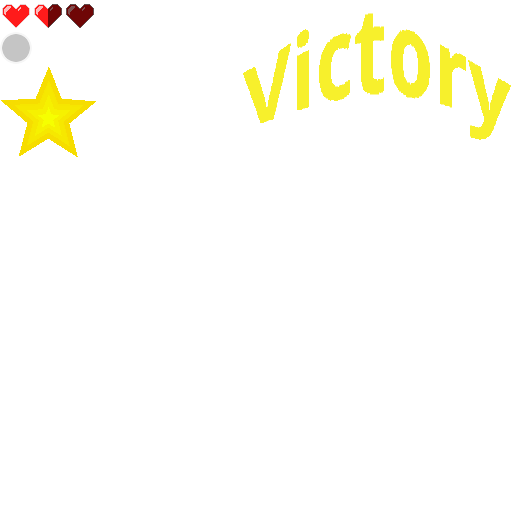
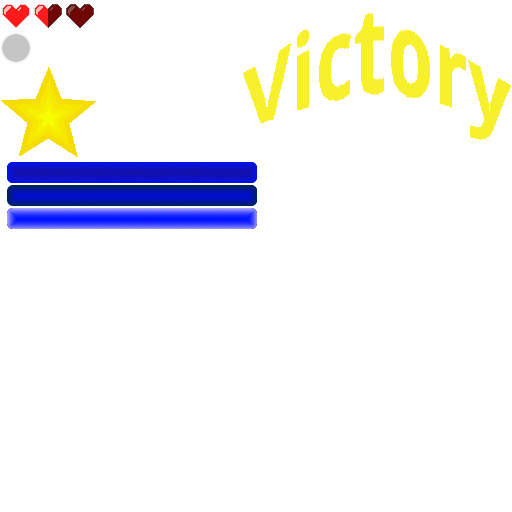
Worked on the main menu.

Changed region(s): [[0.0, 0.3125, 0.5, 0.4688]]

diff --git a/src/Client/StateMainMenu.cpp b/src/Client/StateMainMenu.cpp
@@ -1,8 +1,18 @@
 #include <Client/StateMainMenu.hpp>
 #include <Client/Window.hpp>
+#include <Client/Config.hpp>
+#include <StateManager.hpp>
+
+#include <Client/StateBomberman.hpp>
 
 #include <pihud/Label.hpp>
+#include <pihud/PushButton.hpp>
 #include <pihud/FontManager.hpp>
+#include <pihud/VerticalListLayout.hpp>
+#include <pihud/Layout.hpp>
+#include <pihud/pihud.hpp>
+
+#include <easylogging++.h>
 
 namespace Client
 {
@@ -13,6 +23,7 @@ namespace Client
     StateMainMenu::~StateMainMenu()
     {
 		delete m_menuContainer;
+		LOG(INFO) << "StateMainMenu deleted.";
     }
 
     void StateMainMenu::init()
@@ -24,13 +35,44 @@ namespace Client
         m_menuContainer->setCurrentPage("MainMenu");
 
         std::shared_ptr<PiH::Label> title(new PiH::Label(m_menuContainer));
-        title->setFont(getFontManager()->get("xolonium-fonts/fonts/Xolonium-Bold.otf:128"));
+        title->setFont(getFontManager()->get(getConfig()->getStringValue(Config::STANDARD_FONT) + ":128"));
         title->setText("BomberPi");
-        title->setPosition(getWindow()->getSize().x / 2 - title->getBoundingBox().w / 2,
+        title->setPosition(getWindow()->getSize().x / 2 - title->getTextWidth() / 2,
                            getWindow()->getSize().y / 5);
         title->setColor(120, 120, 120);
-
         mainMenu->addWidget(title, "Title");
+
+        std::shared_ptr<PiH::Layout> buttons = std::make_shared<PiH::Layout>(mainMenu.get());
+		PiH::VerticalListLayout *buttonsLayout = new PiH::VerticalListLayout;
+
+        buttons->setLayouter(buttonsLayout);
+
+        mainMenu->addWidget(buttons, "Buttons");
+
+
+        PiH::IntRect normalRect(6, 175, 250, 11);
+        PiH::IntRect pressedRect(6, 198, 250, 11);
+        PiH::IntRect focusedRect(6, 221, 250, 11);
+
+        std::shared_ptr<PiH::PushButton> startGame = std::make_shared<PiH::PushButton>(m_menuContainer);
+        startGame->setText("Start Game");
+        startGame->setFont(getFontManager()->get(getConfig()->getStringValue(Config::STANDARD_FONT) + ":18"));
+		startGame->getButtonPressedSignal().connect(sigc::mem_fun(this, &StateMainMenu::startGame));
+        startGame->setBackgroundTexture(getTextureManager()->get("hud.png"));
+        startGame->setNormalTextureRect(normalRect);
+        startGame->setFocusedTextureRect(focusedRect);
+        startGame->setPressedTextureRect(pressedRect);
+
+        PiH::getGlobalConfig()->getFocusManager()->setFocused(startGame, 0);
+
+        buttons->addWidget(startGame);
+
+        buttons->setBoundingBox(getWindow()->getSize().x / 4, 0,
+                                getWindow()->getSize().x / 2, getWindow()->getSize().y / 2);
+
+        getSDLEventHandler()->getSignal(SDL_KEYDOWN).connect(sigc::mem_fun(this, &StateMainMenu::onSDLEvent));
+
+		LOG(INFO) << "StateMainMenu initialized";
     }
     void StateMainMenu::update(float frametime)
     {
@@ -39,6 +81,22 @@ namespace Client
     void StateMainMenu::onGameEvent(const piga::GameEvent &gameEvent, float frametime)
     {
         m_menuContainer->onEvent(gameEvent);
+    }
+    void StateMainMenu::onSDLEvent(const SDL_Event &e, float frametime)
+    {
+        if(e.type == SDL_KEYDOWN)
+        {
+            if(e.key.keysym.scancode == SDL_SCANCODE_SPACE)
+            {
+                onGameEvent(piga::GameEvent(0, piga::event::GameInput(piga::ACTION, true)), frametime);
+            }
+        }
+    }
+    void StateMainMenu::startGame(int playerID)
+    {
+        std::shared_ptr<StateBomberman> stateBomberman = std::make_shared<StateBomberman>();
+        getStateManager()->push(stateBomberman);
+        stateBomberman->init();
     }
     void StateMainMenu::render(Client::Window *window)
     {

diff --git a/include/Client/StateMainMenu.hpp b/include/Client/StateMainMenu.hpp
@@ -6,10 +6,11 @@
 #include <pihud/MenuContainer.hpp>
 
 #include <piga/GameEventHandler.hpp>
+#include <SDLEventHandler.hpp>
 
 namespace Client
 {
-    class StateMainMenu : public State, piga::GameEventHandler
+    class StateMainMenu : public State, public piga::GameEventHandler, public SDLEventHandler
     {
         public:
             StateMainMenu();
@@ -21,7 +22,9 @@ namespace Client
             virtual void update(float frametime);
         protected:
             virtual void onGameEvent(const piga::GameEvent &gameEvent, float frametime);
+			virtual void onSDLEvent(const SDL_Event &e, float frametime);
 
+            void startGame(int playerID = 0);
         private:
 			PiH::MenuContainer *m_menuContainer = nullptr;
     };

diff --git a/src/Client/Game.cpp b/src/Client/Game.cpp
@@ -75,7 +75,6 @@ namespace Client
         m_stateManager->setConfig(m_config);
         m_stateManager->setPigaInterface(m_pigaInterface);
 
-
         //Initialize PiHUD
         PiH::Config *pihudConfig = new PiH::Config(m_window->getSDLRenderer());
         pihudConfig->setupDefaultConfig();

diff --git a/src/Client/Config.cpp b/src/Client/Config.cpp
@@ -25,6 +25,9 @@ namespace Client
 
         //Boolean Values
         setBooleanValue(FULLSCREEN, false);
+
+        //String values
+        setStringValue(STANDARD_FONT, "xolonium-fonts/fonts/Xolonium-Bold.otf");
     }
     int Config::getIntValue(Config::Value id)
     {

diff --git a/include/Client/Config.hpp b/include/Client/Config.hpp
@@ -16,6 +16,7 @@ namespace Client
                 FULLSCREEN,
                 POWERUP_DROP_CHANCE,
                 BOMB_PLACE_COOLDOWN,
+                STANDARD_FONT,
 
                 _COUNT
             };
